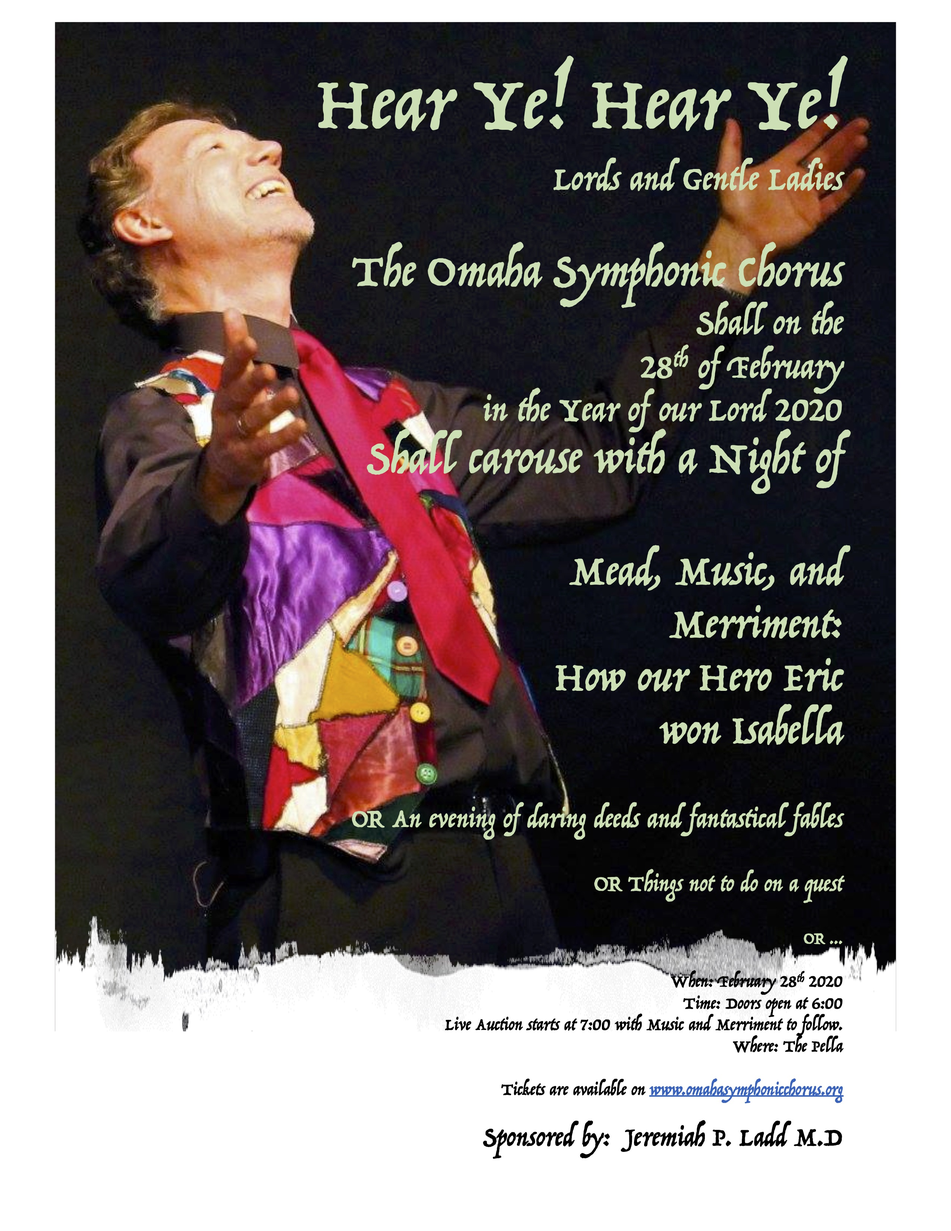
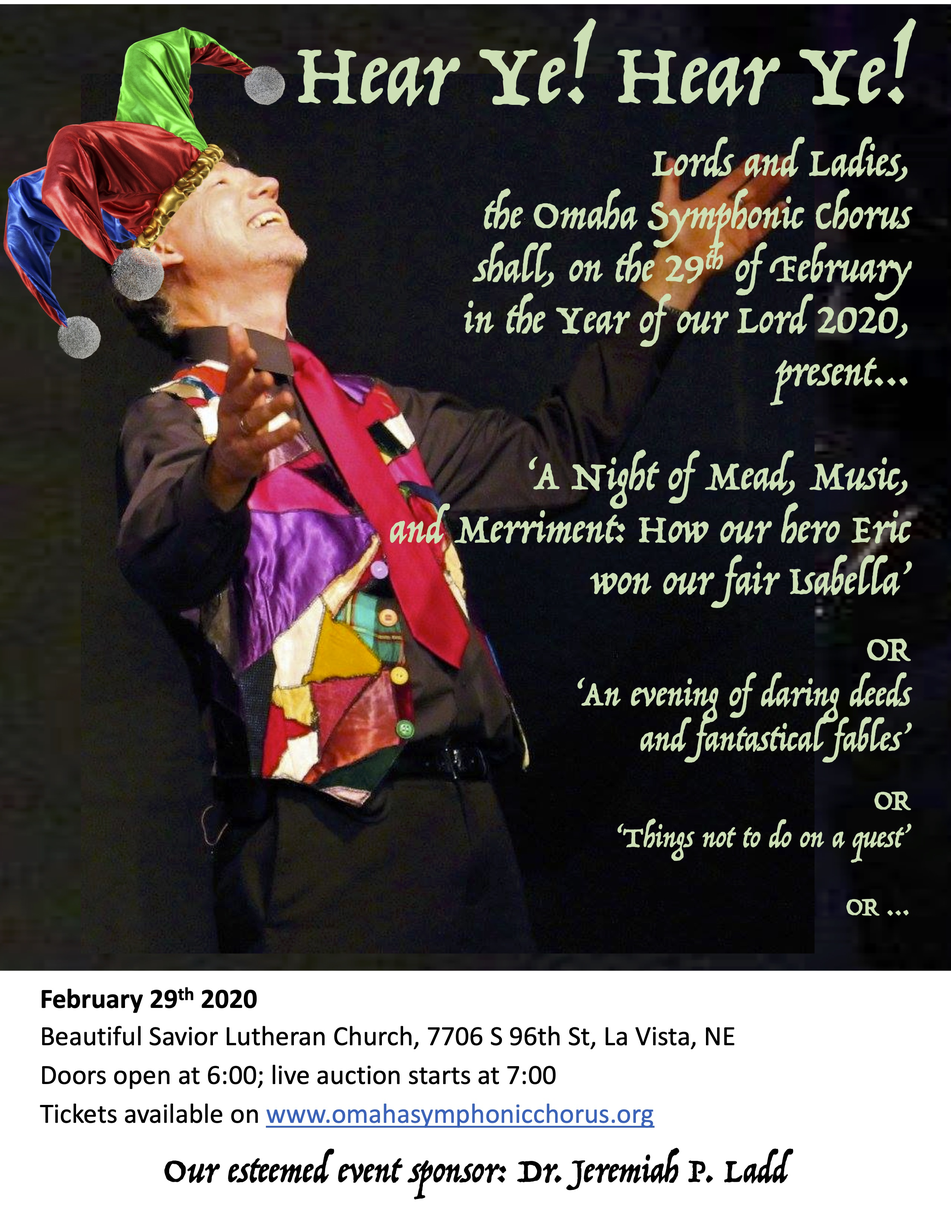
Gala update
* New poster
* Updated time, place, price

diff --git a/content/season/concerts/gala/index.md b/content/season/concerts/gala/index.md
@@ -2,13 +2,13 @@
 title = "Mead, Music and Merriment"
 subtitle = "How our Hero Eric won Isabella OR An evening of daring deeds and fantastical fables OR Things not to do on a quest or ..."
 weight = 3
-datetimes = [ "2020-02-28T18:00:00-05:00" ]
+datetimes = [ "2020-02-29T18:00:00-05:00" ]
 location = '''
-The Pella at Blackstone
-303 S 41st St
-Omaha, NE 68131'''
+Beautiful Savior Lutheran Church
+7706 S 96th St
+La Vista, NE 68128'''
 free = false
-admission = ["$50"]
+admission = ["$25"]
 tickets = "https://www.brownpapertickets.com/event/4503069"
 posterDays = 40
 
